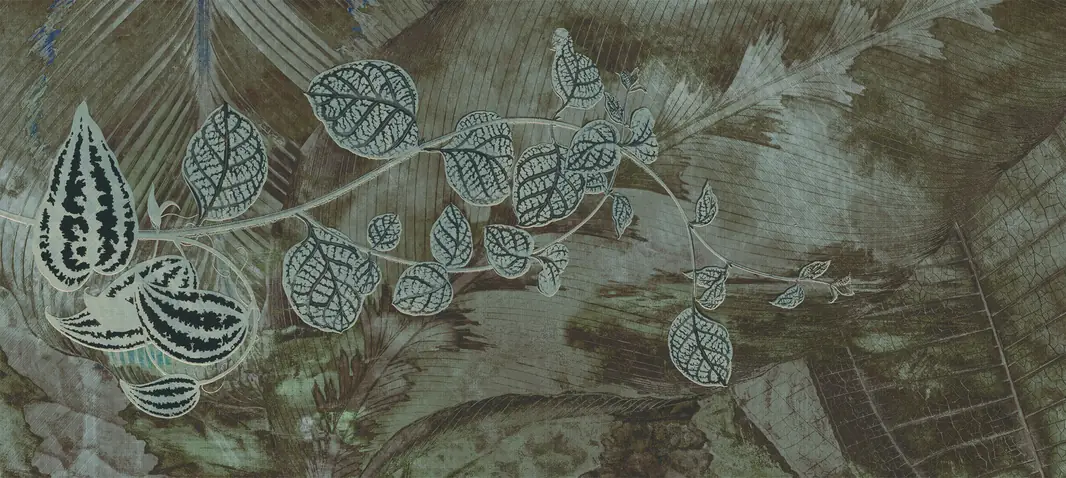
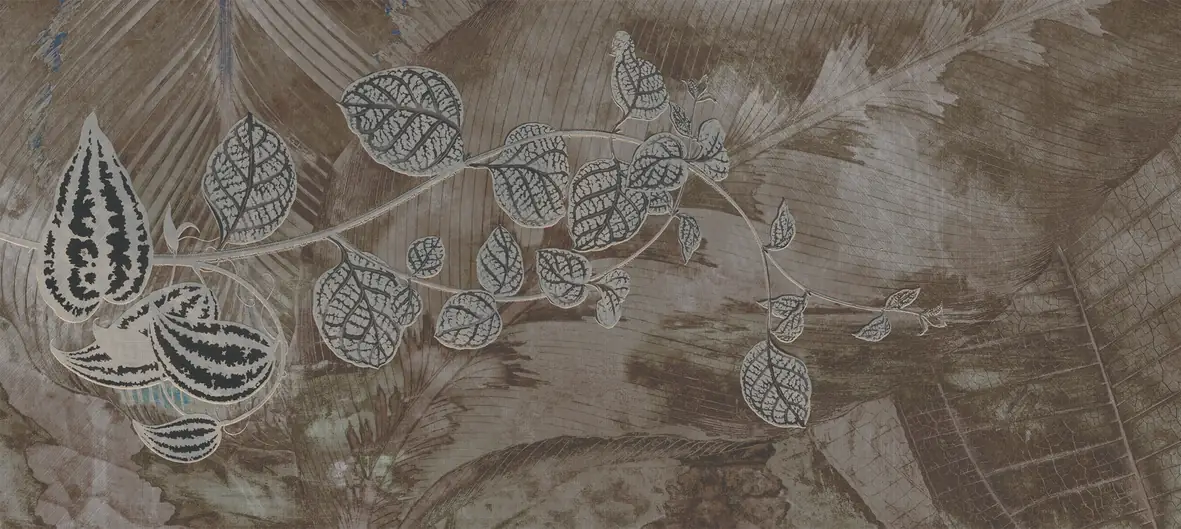
Update pages 8, 9, 11 for new Figma images; fix honeysuckle rust colour
- valley-flowers: new final room image; "Two Horizons" label is now "Vally flower"
- iris: new final room image
- honey-suckle: new rotated diagram, five "120 cm (47.24”)" labels, "HONEYSUCKLE-OG"
- honeysuckle-cw-rust: convert the CMYK source through its embedded profile
  (the earlier naive conversion made it dull and greenish)
- stop tracking the repomapper cache and ignore it

Not yet matched to Figma: the five new white cover rectangles on page 8 and
the new colourway labels on pages 4 and 14.

Changed region(s): [[0.0, 0.0, 1.0, 1.0]]

diff --git a/honey-suckle.html b/honey-suckle.html
@@ -13,7 +13,7 @@
 <h1 class="t c" style="left:0;top:2.0811%;width:100%;--fs:86;line-height:1.1512;font-weight:500">HONEYSUCKLE</h1>
 <div class="i" style="left:8.4028%;top:3.3785%;width:83.2639%;height:6.4875%"><img alt="" class="f" src="images/honeysuckle-hero.webp" decoding="async" fetchpriority="high"></div>
 <div class="t w" style="left:8.4028%;top:10.0345%;width:43.3333%;--fs:20;line-height:1.22">Honeysuckle celebrates the beauty of nature through delicate floral forms and soft layered textures, creating a refined and timeless backdrop for modern living spaces.</div>
-<div class="i n" style="left:8.4028%;top:58.6317%;width:83.2639%;height:5.1563%"><div class="r" style="width:51.0425%;height:195.915%"><img alt="" style="width:651.91%;height:118.96%;left:-283.32%;top:-9.85%" src="images/fragments-diagram.webp" loading="lazy" decoding="async"></div></div>
+<div class="i n" style="left:8.3333%;top:58.5726%;width:83.2639%;height:6.0999%"><div class="r" style="width:60.3837%;height:165.6077%"><img alt="" style="width:100%;height:100%;left:0%;top:0%" src="images/honeysuckle-diagram.webp" loading="lazy" decoding="async"></div></div>
 <div class="i n" style="left:8.4028%;top:63.9144%;width:83.2639%;height:0.4718%"><div class="r" style="width:4.6706%;height:2141.0714%"><img alt="" style="width:10570.07%;height:175.85%;left:-6410.97%;top:-37.25%" src="images/fragments-diagram.webp" loading="lazy" decoding="async"></div></div>
 <div class="i" style="left:8.4028%;top:16.2187%;width:47.5694%;height:14.4326%"><img alt="" style="width:176.92%;height:100.13%;left:-76.92%;top:-0.07%" src="images/home-honey-suckle-2.webp" loading="lazy" decoding="async"></div>
 <div class="i" style="left:60.4167%;top:22.0406%;width:31.25%;height:8.6107%"><img alt="" style="width:179.69%;height:111.94%;left:-79.67%;top:0%" src="images/home-honey-suckle-4.webp" loading="lazy" decoding="async"></div>
@@ -21,14 +21,14 @@
 <div class="i" style="left:8.4028%;top:41.5873%;width:83.2639%;height:4.4823%"><img alt="" class="f" src="images/honeysuckle-cw-powder-blue.webp" loading="lazy" decoding="async"></div>
 <div class="i" style="left:8.4028%;top:49.4987%;width:83.2639%;height:4.5328%"><img alt="" class="f" src="images/honeysuckle-cw-rust.webp" loading="lazy" decoding="async"></div>
 <div class="bx" style="left:34.5139%;top:63.8301%;width:29.9306%;height:0.7077%"></div>
-<div class="t k" style="left:12.7083%;top:63.451%;width:5.1389%;--fs:12;line-height:1.5">65 cm (26")</div>
-<div class="t k" style="left:27.4306%;top:63.451%;width:5.1389%;--fs:12;line-height:1.5">65 cm (26")</div>
-<div class="t k" style="left:41.3889%;top:63.451%;width:5.1389%;--fs:12;line-height:1.5">65 cm (26")</div>
-<div class="t k" style="left:54.6528%;top:63.451%;width:5.1389%;--fs:12;line-height:1.5">65 cm (26")</div>
-<div class="t k" style="left:68.6111%;top:63.451%;width:5.1389%;--fs:12;line-height:1.5">65 cm (26")</div>
-<div class="t k" style="left:82.5694%;top:63.451%;width:5.1389%;--fs:12;line-height:1.5">65 cm (26")</div>
+<div class="t k" style="left:12.7083%;top:63.4763%;width:6.1111%;--fs:12;line-height:1.5">120 cm (47.24”)</div><div class="t k" style="left:29.3056%;top:63.4763%;width:6.1111%;--fs:12;line-height:1.5">120 cm (47.24”)</div><div class="t k" style="left:44.9306%;top:63.4763%;width:6.1111%;--fs:12;line-height:1.5">120 cm (47.24”)</div><div class="t k" style="left:61.5278%;top:63.4763%;width:6.1111%;--fs:12;line-height:1.5">120 cm (47.24”)</div><div class="t k" style="left:77.3611%;top:63.4763%;width:6.1111%;--fs:12;line-height:1.5">120 cm (47.24”)</div>
+
+
+
+
+
 <div class="t c k" style="left:43.1944%;top:63.9987%;width:13.6806%;--fs:23;line-height:1.4783">260 cm ( 102.36" )</div>
-<div class="t c k" style="left:44.0972%;top:58.4716%;width:11.8056%;--fs:20;line-height:1.2">FRAGMENTS-OG</div>
+<div class="t c k" style="left:42.7083%;top:58.4716%;width:14.5833%;--fs:20;line-height:1.2">HONEYSUCKLE-OG</div>
 <div class="t w" style="left:60.4167%;top:21.5435%;width:32.6389%;--fs:20;line-height:1.22">Honeysuckle blends delicate florals and soft textures for timeless, refined interiors.</div>
 <div class="t c" style="left:43.125%;top:38.2425%;width:13.75%;--fs:20;line-height:1.2">Honeysuckle-Green</div>
 <div class="t c" style="left:40.7639%;top:46.1538%;width:18.4722%;--fs:20;line-height:1.2">Honeysuckle-Powder Blue</div>

diff --git a/valley-flowers.html b/valley-flowers.html
@@ -36,9 +36,9 @@
 <div class="t c k" style="left:47.5%;top:61.7365%;width:5.1389%;--fs:12;line-height:1.5">132 cm (52")</div>
 <div class="t k" style="left:76.0417%;top:61.7365%;width:5.1389%;--fs:12;line-height:1.5">132 cm (52")</div>
 <div class="blk" style="left:0%;top:66.9656%;width:100%;height:16.0423%"></div>
-<div class="i" style="left:5.2778%;top:67.6314%;width:89.5139%;height:8.1765%"><img alt="" class="f" src="images/two-horizons-spec.webp" loading="lazy" decoding="async"></div>
+<div class="i" style="left:5.2778%;top:67.6314%;width:89.5139%;height:8.1765%"><img alt="" class="f" src="images/valley-flowers-room.webp" loading="lazy" decoding="async"></div>
 <div class="t wh" style="left:5.2778%;top:76.2518%;width:13.5417%;--fs:30;line-height:1.2">MuraIs:</div>
-<div class="t wh" style="left:29.1667%;top:76.2695%;width:48.6111%;--fs:30;line-height:1.0333">Two Horizons</div>
+<div class="t wh" style="left:29.1667%;top:76.2695%;width:48.6111%;--fs:30;line-height:1.0333">Vally flower</div>
 <div class="t wh" style="left:5.2778%;top:77.0064%;width:13.5417%;--fs:30;line-height:1.2">Colourways:</div>
 <div class="t wh" style="left:29.1667%;top:77.0153%;width:48.6111%;--fs:30;line-height:1.1667">5 colours available</div>
 <div class="t wh" style="left:5.2778%;top:77.7699%;width:13.5417%;--fs:30;line-height:1.2">Composition:</div>

diff --git a/iris.html b/iris.html
@@ -35,7 +35,7 @@
 <div class="t k" style="left:30.8333%;top:64.3149%;width:5.1389%;--fs:12;line-height:1.5">65 cm (26")</div>
 <div class="t k" style="left:22.4306%;top:64.3149%;width:5.1389%;--fs:12;line-height:1.5">65 cm (26")</div>
 <div class="blk" style="left:0%;top:69.6358%;width:100%;height:14.1814%"></div>
-<div class="i" style="left:5.2778%;top:70.2245%;width:89.5139%;height:7.2281%"><img alt="" class="f" src="images/honeysuckle-spec.webp" loading="lazy" decoding="async"></div>
+<div class="i" style="left:5.2778%;top:70.2245%;width:89.5139%;height:7.2281%"><img alt="" class="f" src="images/iris-room.webp" loading="lazy" decoding="async"></div>
 <div class="t wh" style="left:5.2778%;top:77.8449%;width:13.5417%;--fs:30;line-height:1.2">MuraIs:</div>
 <div class="t wh" style="left:29.1667%;top:77.8606%;width:48.6111%;--fs:30;line-height:1.0333">Iris</div>
 <div class="t wh" style="left:5.2778%;top:78.512%;width:13.5417%;--fs:30;line-height:1.2">Colourways:</div>
